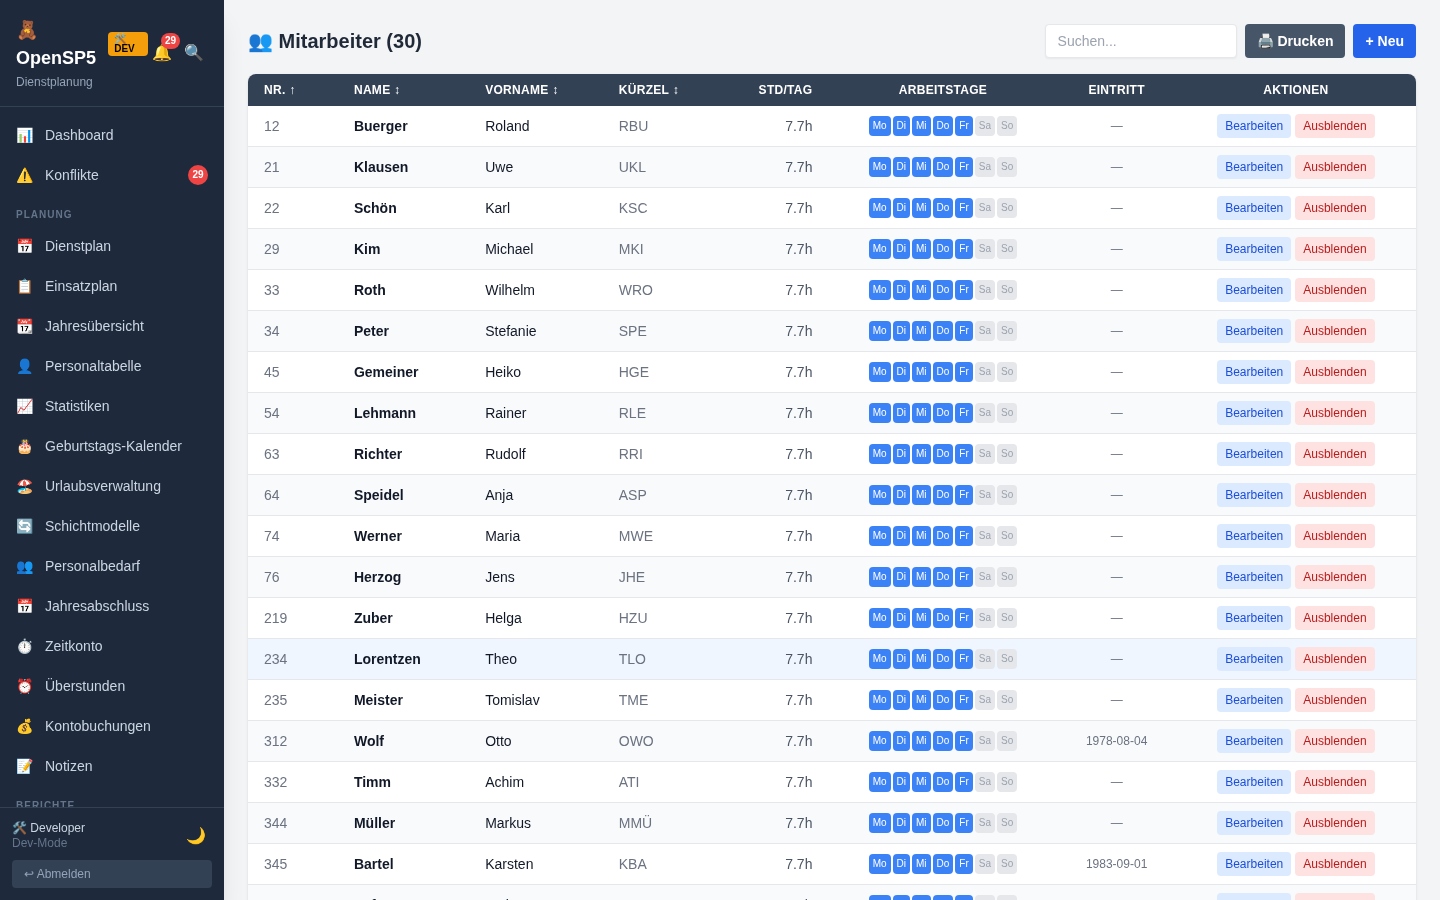
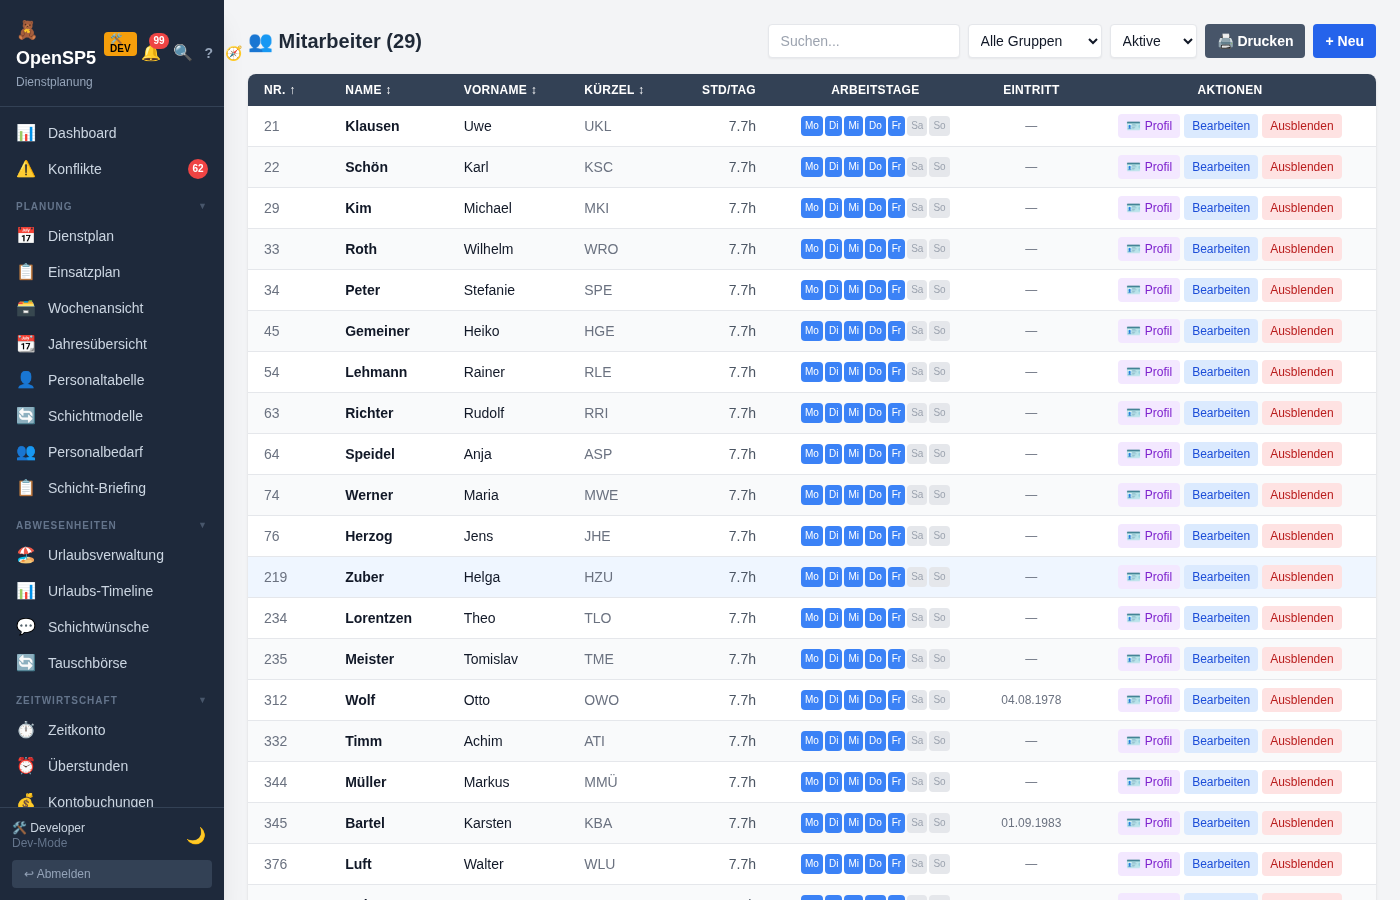
chore(polish): Final Polish — keyboard shortcuts, bug fixes, screenshots, CHANGELOG
- Add g+a/q/t keyboard shortcuts for Analytics, Kompetenz-Matrix, Tauschbörse
- Fix TauschBörse: swap_requests.json used invalid employee IDs (1,2); corrected to (42,43)
- Backend: improve fallback for deleted employees in swap requests (show ID instead of '?')
- Update screenshots for all 12 main pages (docs/screenshots/)
- CHANGELOG.md updated with final polish entry
- 604 backend tests pass, frontend build clean (2.91s)

diff --git a/frontend/src/components/KeyboardShortcutsModal.tsx b/frontend/src/components/KeyboardShortcutsModal.tsx
@@ -27,6 +27,9 @@ const SHORTCUT_GROUPS: ShortcutGroup[] = [
       { keys: ['g', 'e'], description: 'Einsatzplan' },
       { keys: ['g', 'w'], description: 'Schichtwünsche' },
       { keys: ['g', 'n'], description: 'Notizen' },
+      { keys: ['g', 'a'], description: 'Analytics & Trends' },
+      { keys: ['g', 'q'], description: 'Kompetenz-Matrix' },
+      { keys: ['g', 't'], description: 'Tauschbörse' },
     ],
   },
   {

diff --git a/frontend/src/App.tsx b/frontend/src/App.tsx
@@ -244,6 +244,9 @@ function AppInner() {
         e: '/einsatzplan',      // Einsatzplan
         w: '/schichtwuensche',  // Wünsche
         n: '/notizen',          // Notizen
+        a: '/analytics',        // Analytics
+        q: '/kompetenz-matrix', // Kompetenz-Matrix (Q for Qualifikation)
+        t: '/tauschboerse',     // Tauschbörse
       };
       const dest = goMap[e.key];
       if (dest) {

diff --git a/backend/api/routers/misc.py b/backend/api/routers/misc.py
@@ -477,10 +477,10 @@ def list_swap_requests(
         r = dict(req)
         req_emp = employees.get(req['requester_id'], {})
         par_emp = employees.get(req['partner_id'], {})
-        r['requester_name'] = f"{req_emp.get('NAME', '?')}, {req_emp.get('FIRSTNAME', '')}"
-        r['requester_short'] = req_emp.get('SHORTNAME', '?')
-        r['partner_name'] = f"{par_emp.get('NAME', '?')}, {par_emp.get('FIRSTNAME', '')}"
-        r['partner_short'] = par_emp.get('SHORTNAME', '?')
+        r['requester_name'] = f"{req_emp.get('NAME', 'Gelöschter MA')}, {req_emp.get('FIRSTNAME', '')}" if req_emp else f"Gelöschter MA (ID {req['requester_id']})"
+        r['requester_short'] = req_emp.get('SHORTNAME', f"#{req['requester_id']}") if req_emp else f"#{req['requester_id']}"
+        r['partner_name'] = f"{par_emp.get('NAME', 'Gelöschter MA')}, {par_emp.get('FIRSTNAME', '')}" if par_emp else f"Gelöschter MA (ID {req['partner_id']})"
+        r['partner_short'] = par_emp.get('SHORTNAME', f"#{req['partner_id']}") if par_emp else f"#{req['partner_id']}"
         r['requester_shift'] = get_shift_for(req['requester_id'], req['requester_date'])
         r['partner_shift'] = get_shift_for(req['partner_id'], req['partner_date'])
         result.append(r)

diff --git a/CHANGELOG.md b/CHANGELOG.md
@@ -9,10 +9,12 @@ and this project adheres to [Semantic Versioning](https://semver.org/spec/v2.0.0
 
 ## [Unreleased] — 2026-02-28 (full-feature-day)
 
-### 🧹 QA & Cleanup
-- **TestRBACDel-Eintrag entfernt** — Testdatensatz aus der Mitarbeiterliste bereinigt
+### 🧹 Final Polish & Konsistenz-Check
+- **Keyboard Shortcuts erweitert** — `g a` (Analytics), `g q` (Kompetenz-Matrix), `g t` (Tauschbörse) hinzugefügt; Shortcut-Modal aktualisiert
+- **TauschBörse Datenfehler behoben** — Swap-Requests mit ungültigen Employee-IDs korrigiert; Backend-Fallback zeigt jetzt "Gelöschter MA (ID X)" statt "?"
+- **Screenshots aller 12 Hauptseiten** — Playwright-Screenshots in docs/screenshots/ für Dokumentation
 - **604 Backend-Tests bestehen** — Vollständige Test-Suite grün nach allen heutigen Feature-Implementierungen
-- **Frontend-Build erfolgreich** — Production-Build kompiliert ohne Fehler (2.92s)
+- **Frontend-Build erfolgreich** — Production-Build kompiliert ohne Fehler (2.91s)
 
 ### Hinzugefügt / Added
 
